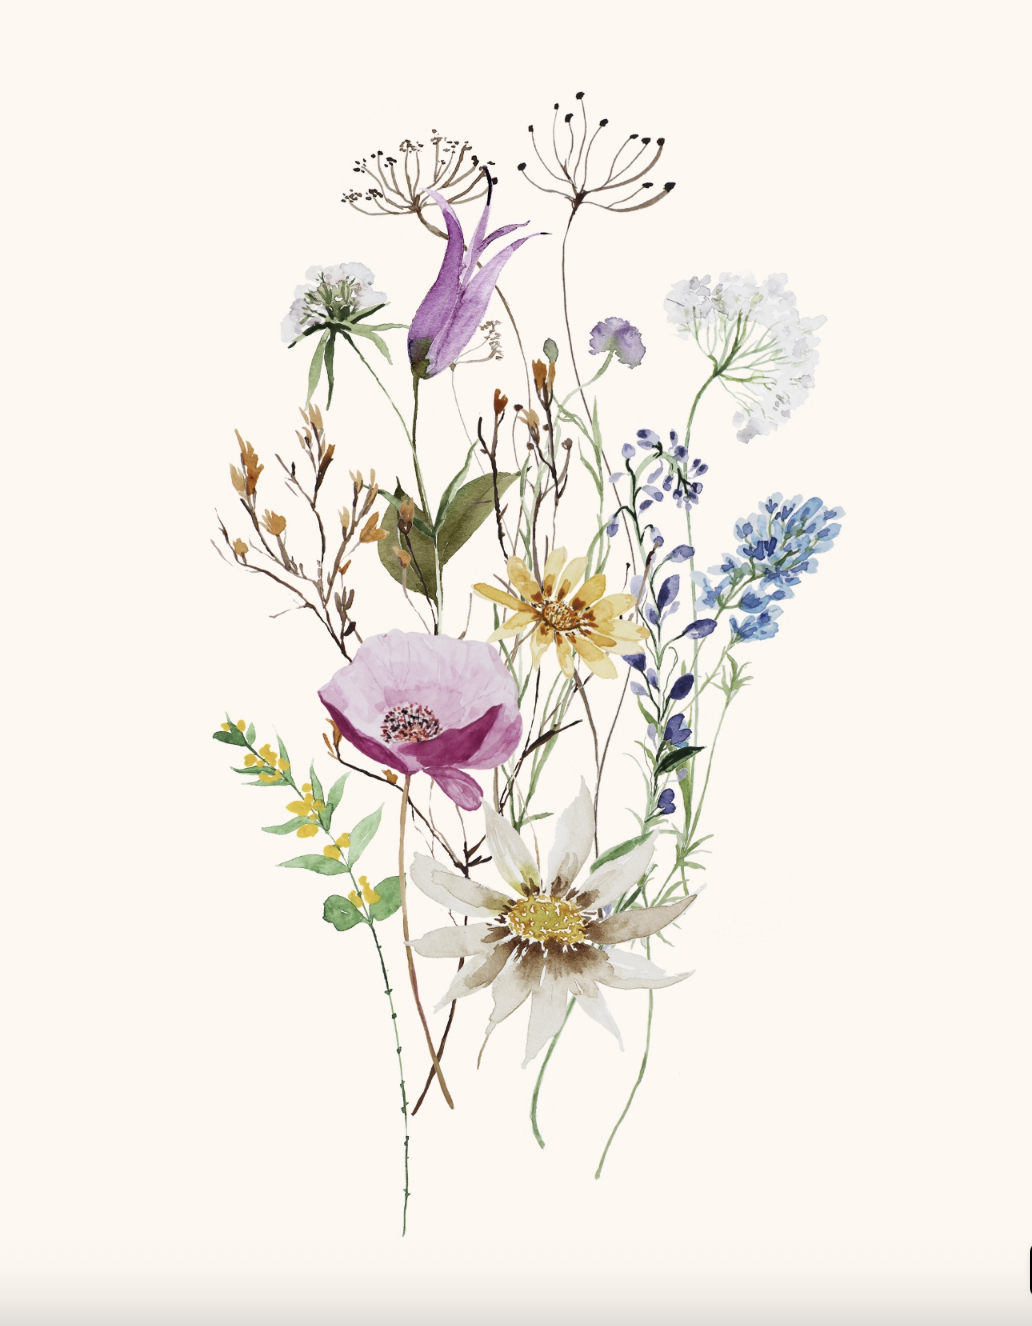
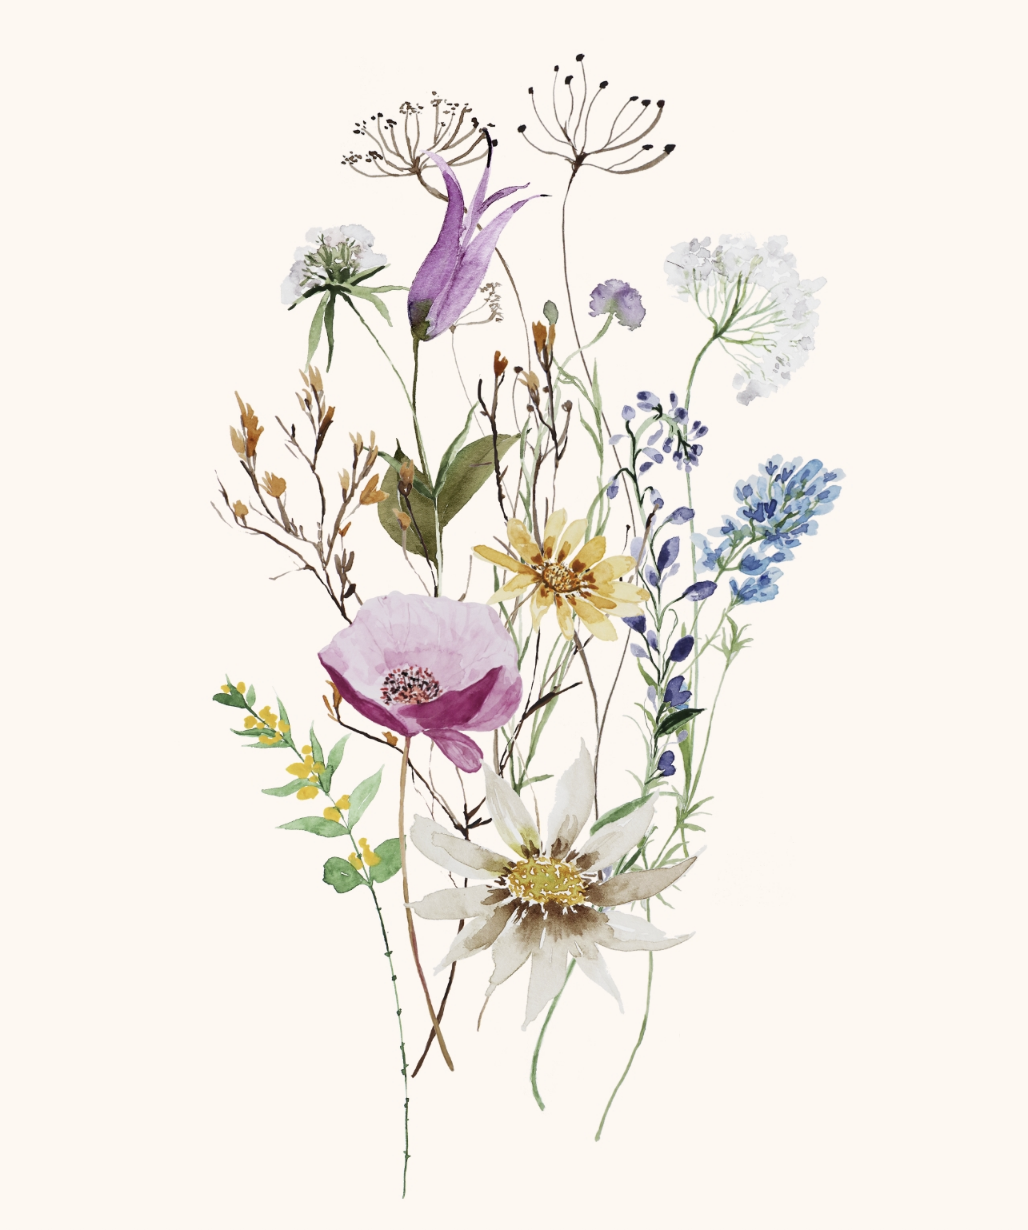
first photo

Changed region(s): [[0.1868, 0.0618, 0.8093, 0.9577], [0.0, 0.9268, 1.0, 1.0]]

diff --git a/index.html b/index.html
@@ -12,8 +12,8 @@
     <p>Přijďte s námi oslavit naši svatbu!</p>
   </header>
 
-<div class="photo-container">
-  <img src="images/irsko.jpg" alt="DomcaHonza" class="photo">
+<div class="first-photo-container">
+  <img src="images/pozvanka.png" alt="DomcaHonza" class="first-photo">
 </div>
 
 <div class="wrapper">

diff --git a/style.css b/style.css
@@ -109,10 +109,9 @@ a:hover {
 
 .first-photo {
   max-width: 70%;
-  width: 50%;
+  width: 25%;
   height: auto;
   opacity: 0.9;
-  transition: opacity 0.3s ease;
 }
 
 @media (max-width: 600px) {
